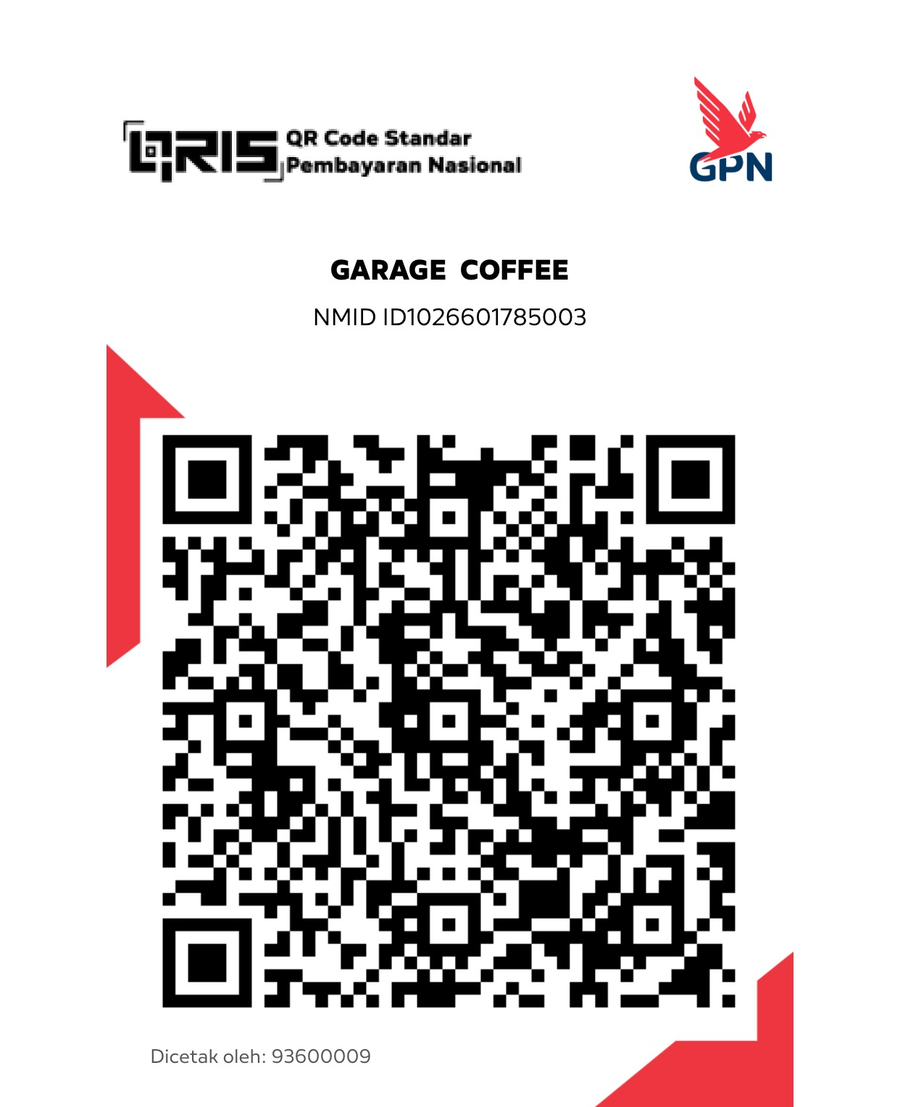
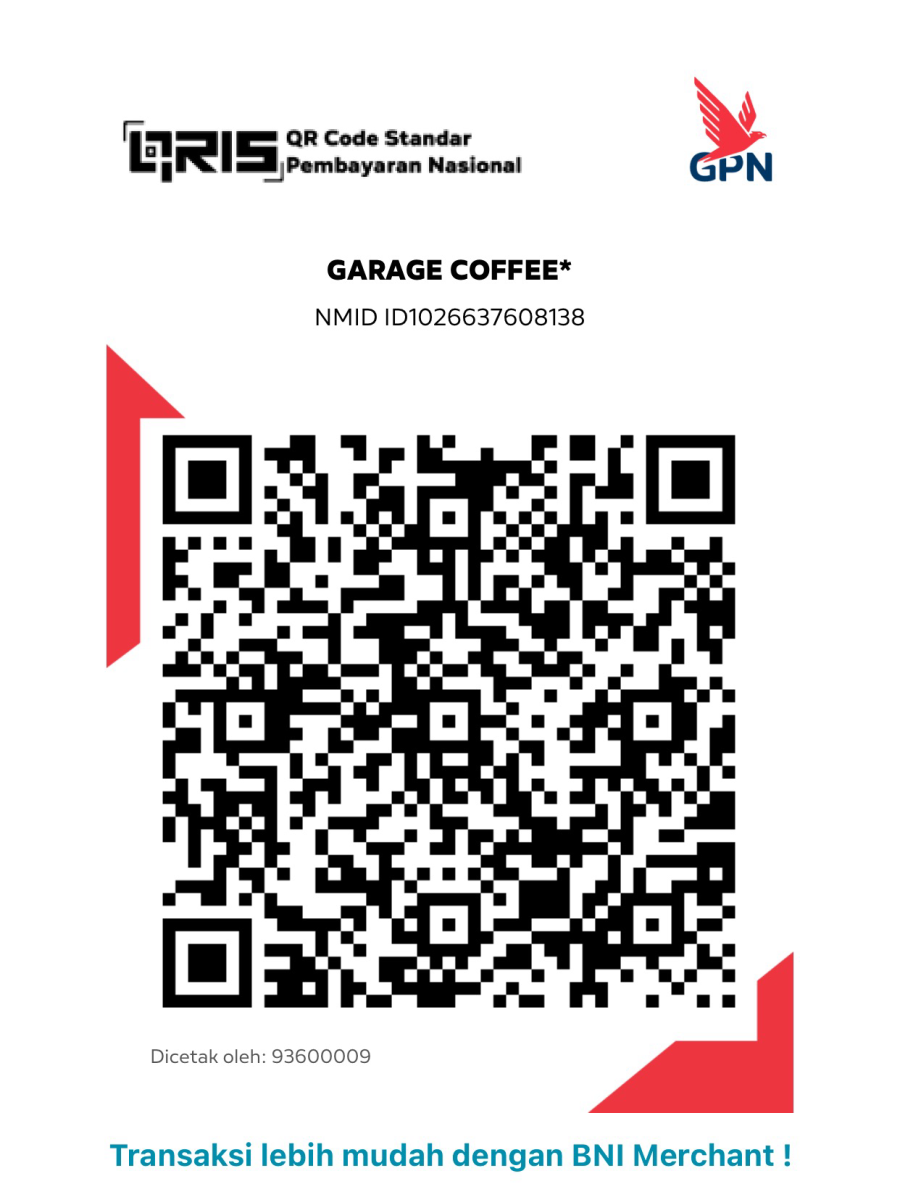
Ganti QRIS ke BNI NMID ID1026637608138 (GARAGE COFFEE*)
QRIS baru dari BNI Merchant (acquirer 93600009), payload di-decode dan CRC A70F valid.
Gambar 900x1184 PNG, hasil scan = payload asli. QRIS_IMAGE_VERSION naik ke bni-2026-11-15
agar POS, menu digital, member order, invoice, dan layar pelanggan memuat gambar baru.

diff --git a/src/lib/garage-qris.ts b/src/lib/garage-qris.ts
@@ -1,14 +1,16 @@
 // Sumber QRIS merchant tunggal untuk semua layar (POS, menu digital, invoice,
-// layar pelanggan). QRIS aktif: BNI (acquirer 93600009), dicek dengan decode
-// isi QR — bukan QRIS lama "G A R A G E MINUMAN" (SpeedCash, NMID ID1026525964734).
+// layar pelanggan). QRIS aktif sejak 15 Nov 2026: BNI (acquirer 93600009),
+// NMID ID1026637608138, nama di QR "GARAGE COFFEE*" — dicek dengan decode isi QR
+// (CRC A70F valid). Menggantikan QRIS BNI sebelumnya (NMID ID1026601785003) dan
+// QRIS lama "G A R A G E MINUMAN" (SpeedCash, NMID ID1026525964734).
 // Ganti gambar? Taruh PNG baru di public/payments/qris-garage.png, perbarui
 // NMID & naikkan QRIS_IMAGE_VERSION agar cache browser/CDN memuat gambar baru.
 export const QRIS_MERCHANT = {
   name: "GARAGE COFFEE",
-  nmid: "ID1026601785003",
+  nmid: "ID1026637608138",
   acquirer: "BNI",
   acquirerId: "93600009",
 } as const;
 
-export const QRIS_IMAGE_VERSION = "bni-2026-09";
+export const QRIS_IMAGE_VERSION = "bni-2026-11-15";
 export const QRIS_IMAGE_SRC = `/payments/qris-garage.png?v=${QRIS_IMAGE_VERSION}`;
